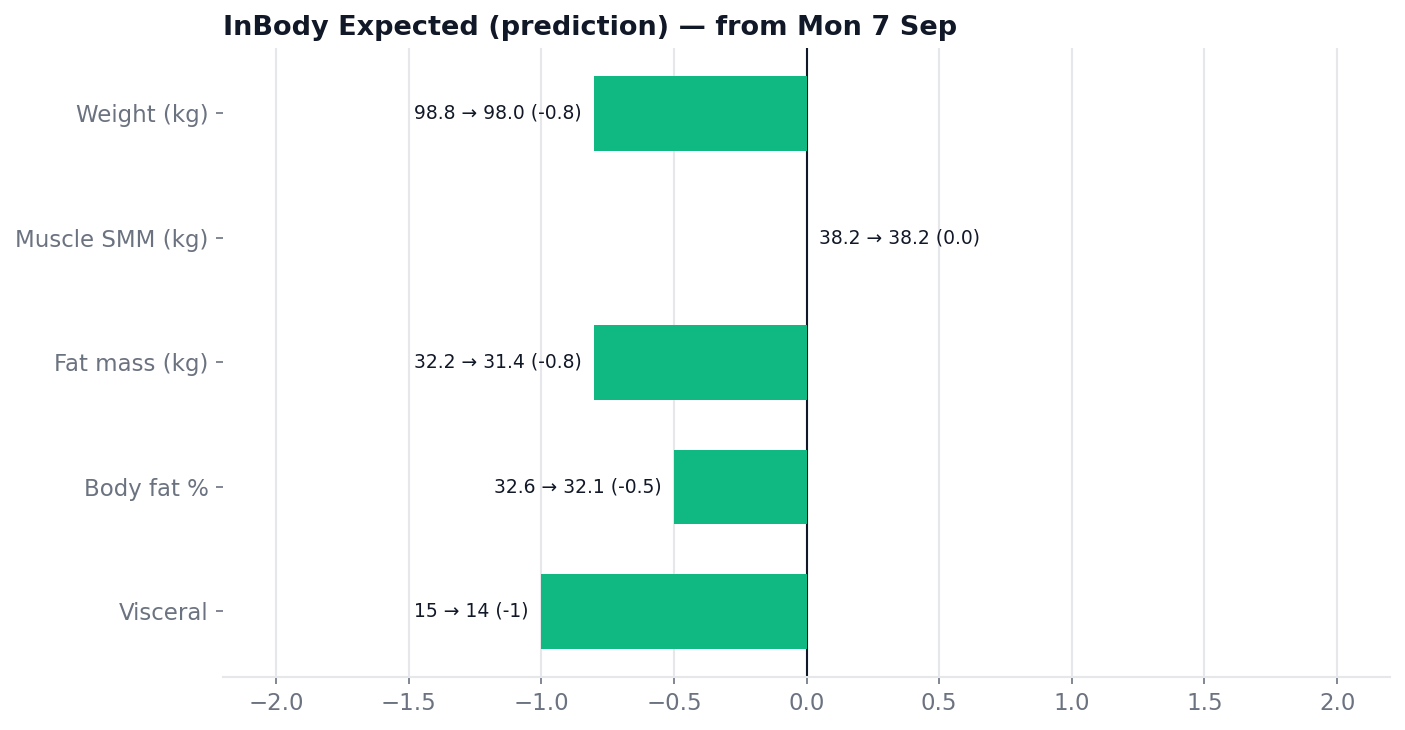
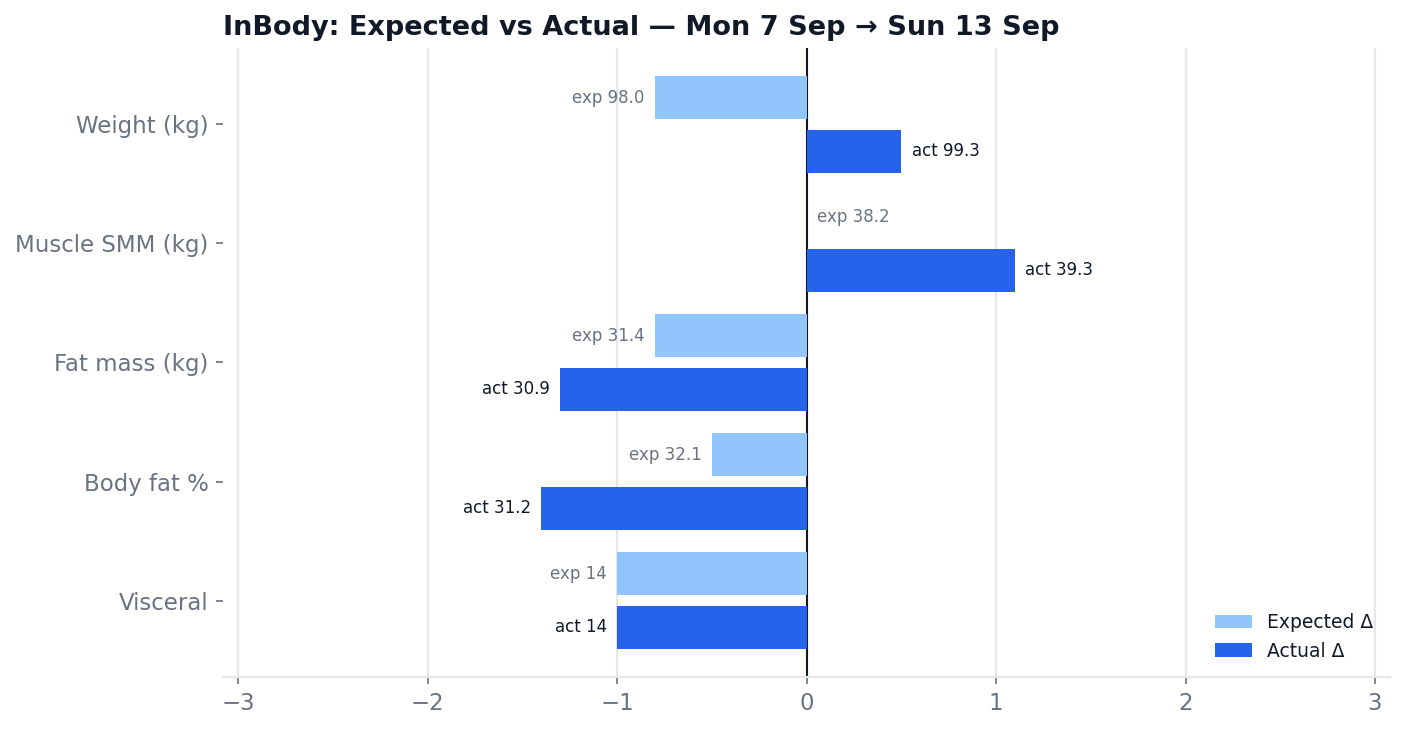
Week 1 InBody result (Sun 13): recomp — fat -1.3, SMM +1.1, visceral -1, score 69->72
- Target vs Actual chart generated; beat fat target
- Weight +0.5 = water (TBW +1.2L); magnitude partly BIA noise, direction clearly good
- No TDEE recalibration off one scan

diff --git a/logs/week-01-summary.md b/logs/week-01-summary.md
@@ -9,17 +9,21 @@ _(4 of 5 training days done; Legs Fri + weekend pending. Regenerate: `python3 ch
 
 ![Week 1 InBody target](../charts/week-01-inbody.png)
 
-**Scan on Tue 15 Sep** (rest Sun + Ganeshotsav Mon closed the gym; scan + Push on Tue). 8-day window → Sun + Mon still count toward it, so keep them clean.
+**Scan done Sun 13 Sep** (6-day window).
 
-| Metric | Baseline (7 Sep) | 🎯 **Target** (15 Sep) | **Actual** (15 Sep scan) | Hit? |
-|--------|------------------|------------------------|--------------------------|------|
-| Weight (kg) | 98.8 | **98.0** (−0.8) | _TBD_ | |
-| Muscle SMM (kg) | 38.2 | **38.2** (hold) | _TBD_ | |
-| Fat mass (kg) | 32.2 | **31.4** (−0.8) | _TBD_ | |
-| Body fat % | 32.6 | **32.1** (−0.5) | _TBD_ | |
-| Visceral | 15 | **14** (−1) | _TBD_ | |
+| Metric | Baseline (7 Sep) | 🎯 Target | **Actual** (13 Sep) | Hit? |
+|--------|------------------|-----------|---------------------|------|
+| Weight (kg) | 98.8 | 98.0 (−0.8) | **99.3 (+0.5)** | ❌ (water — see below) |
+| Muscle SMM (kg) | 38.2 | hold | **39.3 (+1.1)** | ✅✅ up, not just held |
+| Fat mass (kg) | 32.2 | 31.4 (−0.8) | **30.9 (−1.3)** | ✅ beat target |
+| Body fat % | 32.6 | 32.1 (−0.5) | **31.2 (−1.4)** | ✅ beat target |
+| Visceral | 15 | 14 | **14** | ✅ hit |
+| InBody score | 69 | — | **72** | ✅ +3 |
 
-_Actual fills in Tue; the chart redraws Target vs Actual side-by-side. **Big caveat:** carb/festival food before the scan → **water retention may hide the weight/scale drop.** Read **fat mass + SMM**, not the scale, for the real verdict._
+### Verdict: 🎯 the system works — a textbook recomp
+Fat down, muscle up/held, visceral down, score up. The **only** "miss" is the scale (+0.5 kg) — and that's **water**, exactly as flagged: Total Body Water rose +1.2 L (glycogen from the weekend carbs + more muscle holds more water). **This is why we read fat + muscle, not the scale.**
+
+**Honest caveat on magnitude:** −1.3 kg fat *and* +1.1 kg muscle in 6 days is partly BIA hydration noise — glycogen refill reads as "muscle," so the true fat loss is likely ~0.7–1.0 kg with muscle held/slightly up. **Don't expect +1 kg muscle every week.** But the *direction* is unambiguous and excellent, and it beat the target. **We do NOT recalibrate TDEE off one noisy scan — wait for the multi-week trend.**
 
 ## Daily numbers
 | Day | Training | kcal | Protein | Carbs | Fat | Est. deficit* | Notes |

diff --git a/logs/inbody-log.md b/logs/inbody-log.md
@@ -7,7 +7,7 @@
 | Week | Date | Weight (kg) | Skeletal Muscle Mass (kg) | Body Fat Mass (kg) | Body Fat % | PBF trend | Notes / how training felt |
 |------|------|-------------|---------------------------|--------------------|-----------|-----------|---------------------------|
 | 1 (Day 1, baseline) | Mon 7 Sep | 98.8 | 38.2 | 32.2 | 32.6 | — | Score 69/100 · BMI 32.3 · visceral 15 · FFM 66.6 · protein 13.3 · BMR 1808 · W/H 1.07 |
-| 2  | Mon 14 Sep |  |  |  |  |  |  |
+| 2 (Wk1 result) | Sun 13 Sep | 99.3 | 39.3 | 30.9 | 31.2 | ↓ −1.4 | 🎯 Recomp: fat −1.3, SMM +1.1, visceral 15→14, score 69→72. Weight +0.5 = water (TBW +1.2 L). Magnitude partly BIA noise; direction clearly good. |
 | 3  | Mon 21 Sep |  |  |  |  |  |  |
 | 4  | Mon 28 Sep |  |  |  |  |  |  |
 | 5  | Mon 5 Oct  |  |  |  |  |  |  |
